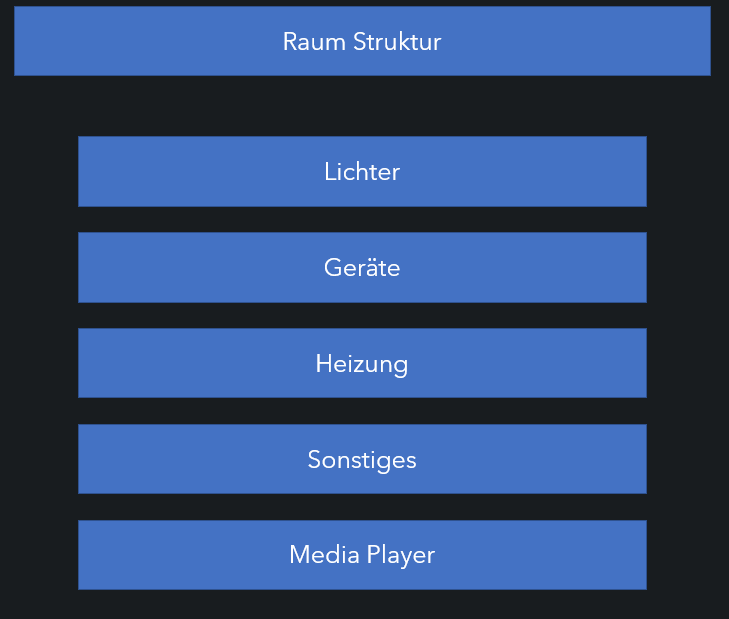
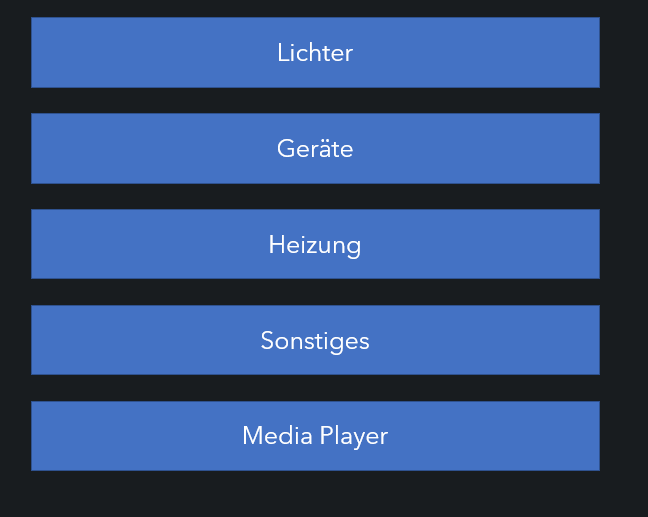
GitBook: [#248] No subject

diff --git a/SUMMARY.md b/SUMMARY.md
@@ -169,12 +169,11 @@
       * [Status Card](smarthome-via-home-assistant/dashboard-design/templating/status-card.md)
       * [On/Off Card](smarthome-via-home-assistant/dashboard-design/templating/on-off-card.md)
   * [Meine Hardware](smarthome-via-home-assistant/meine-hardware.md)
-  * [Mein Smartphone Dashboard](smarthome-via-home-assistant/mein-smartphone-dashboard/README.md)
-    * [Grundgedanke](smarthome-via-home-assistant/mein-smartphone-dashboard/grundgedanke.md)
-    * [Meine Frontend Pakete aus Hacs](smarthome-via-home-assistant/mein-smartphone-dashboard/meine-frontend-pakete-aus-hacs.md)
-    * [Seiten anlegen und einstellen](smarthome-via-home-assistant/mein-smartphone-dashboard/seiten-anlegen-und-einstellen.md)
-    * [work in progress](smarthome-via-home-assistant/mein-smartphone-dashboard/work-in-progress.md)
-    * [work in progress 2](smarthome-via-home-assistant/mein-smartphone-dashboard/work-in-progress-2.md)
+  * [Mein Smartphone Dashboard](smarthome-via-home-assistant/dashboard-design/mein-smartphone-dashboard/README.md)
+    * [Grundgedanke](smarthome-via-home-assistant/dashboard-design/mein-smartphone-dashboard/grundgedanke.md)
+    * [Raumstruktur](smarthome-via-home-assistant/mein-smartphone-dashboard/raumstruktur.md)
+    * [Meine Frontend Pakete aus Hacs](smarthome-via-home-assistant/dashboard-design/mein-smartphone-dashboard/meine-frontend-pakete-aus-hacs.md)
+    * [Seiten anlegen und einstellen](smarthome-via-home-assistant/dashboard-design/mein-smartphone-dashboard/seiten-anlegen-und-einstellen.md)
   * [Support Links](smarthome-via-home-assistant/support-links.md)
 * [Spendenlink](https://streamelements.com/crydteam/tip)
 * [Kontaktformular](kontaktformular.md)

diff --git a/smarthome-via-home-assistant/dashboard-design/mein-smartphone-dashboard/seiten-anlegen-und-einstellen.md b/smarthome-via-home-assistant/dashboard-design/mein-smartphone-dashboard/seiten-anlegen-und-einstellen.md
@@ -1,0 +1,56 @@
+# Seiten anlegen und einstellen
+
+<figure><img src="../../../.gitbook/assets/image (2).png" alt=""><figcaption><p>bei der Seitenerstellung bitte die YAML anpassen </p></figcaption></figure>
+
+```
+theme: Backend-selected
+title: Büro
+path: buro
+type: custom:vertical-layout
+subview: false
+badges: []
+```
+
+Jetzt geht es an die Grundstruktur des ersten Raumes hier habe ich meist folgende Config:
+
+```
+type: vertical-stack
+cards:
+  - type: custom:mushroom-chips-card
+    chips:
+      - type: template
+        icon: mdi:arrow-left-bold
+        picture: ''
+        content: Home
+        tap_action:
+          action: navigate
+          navigation_path: /lovelace-yotube/smartphonehome
+      - type: entity
+        entity: sensor.TEMPERATUR
+      - type: entity
+        entity: sensor.LUFTFEUCHTIGKEIT
+  - type: custom:mushroom-template-card
+    primary: Lichter
+    secondary: ''
+    icon: ''
+  - type: vertical-stack
+    cards: []
+  - type: custom:mushroom-template-card
+    primary: Geräte
+    secondary: ''
+    icon: ''
+  - type: vertical-stack
+    cards: []
+  - type: custom:mushroom-template-card
+    primary: Heizung
+    secondary: ''
+    icon: ''
+  - type: vertical-stack
+    cards: []
+  - type: custom:mushroom-template-card
+    primary: Sonstiges
+    secondary: ''
+    icon: ''
+  - type: vertical-stack
+    cards: []
+```

diff --git a/smarthome-via-home-assistant/dashboard-design/mein-smartphone-dashboard/grundgedanke.md b/smarthome-via-home-assistant/dashboard-design/mein-smartphone-dashboard/grundgedanke.md
@@ -5,5 +5,3 @@ description: macht euch im Vorfeld Gedanken was ihr alles braucht
 # Grundgedanke
 
 <figure><img src="../../../.gitbook/assets/image (5).png" alt=""><figcaption><p>Welche Räume und Status Seiten brauche ich?</p></figcaption></figure>
-
-<figure><img src="../../../.gitbook/assets/image (1).png" alt=""><figcaption><p>Wie möchte ich meine Räume strukturieren?</p></figcaption></figure>

diff --git a/smarthome-via-home-assistant/mein-smartphone-dashboard/raumstruktur.md b/smarthome-via-home-assistant/mein-smartphone-dashboard/raumstruktur.md
@@ -1,0 +1,7 @@
+---
+description: überlege dir eine Struktur wie du deine Kategorien anlegen willst
+---
+
+# Raumstruktur
+
+<figure><img src="../../.gitbook/assets/image (1).png" alt=""><figcaption></figcaption></figure>
